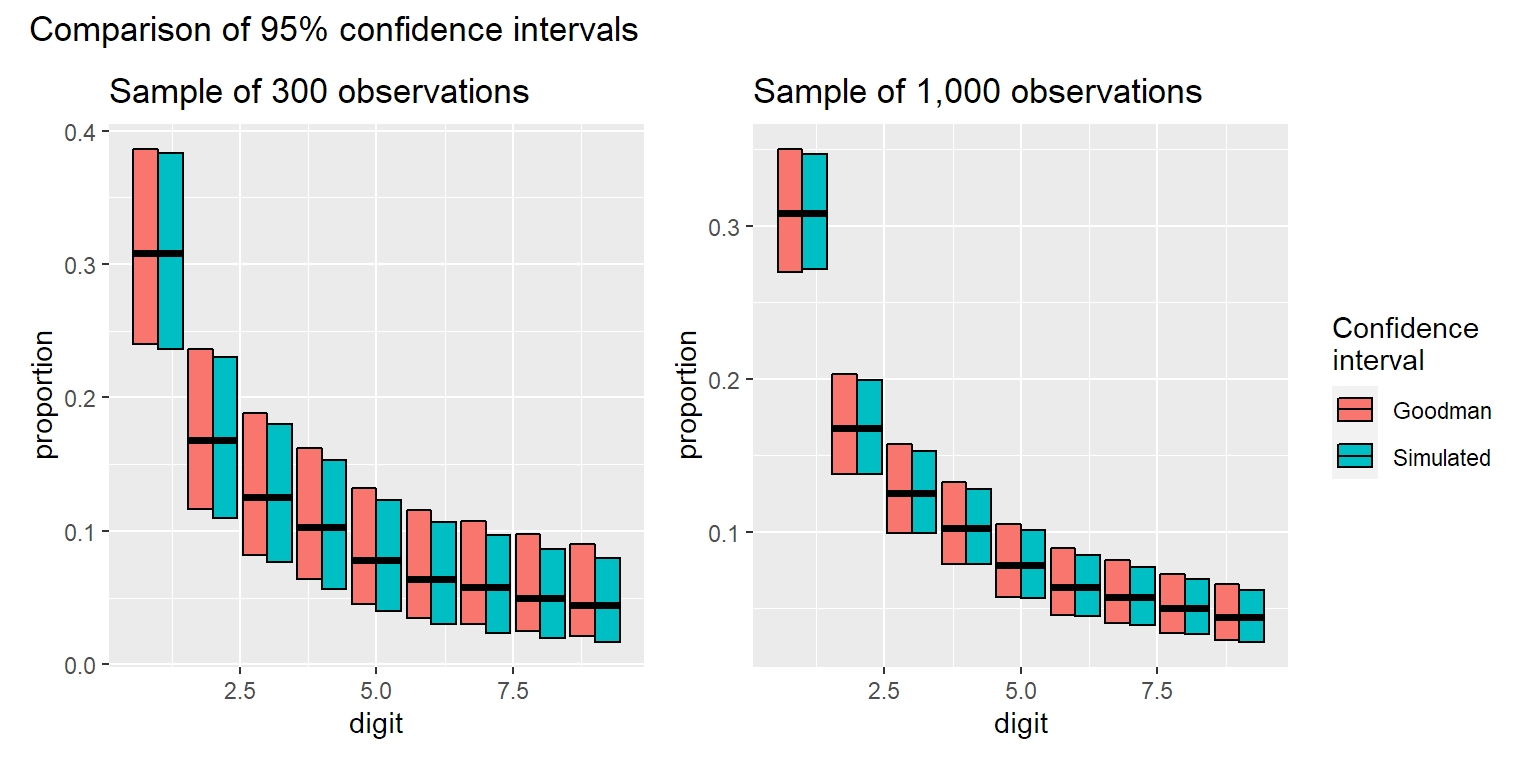
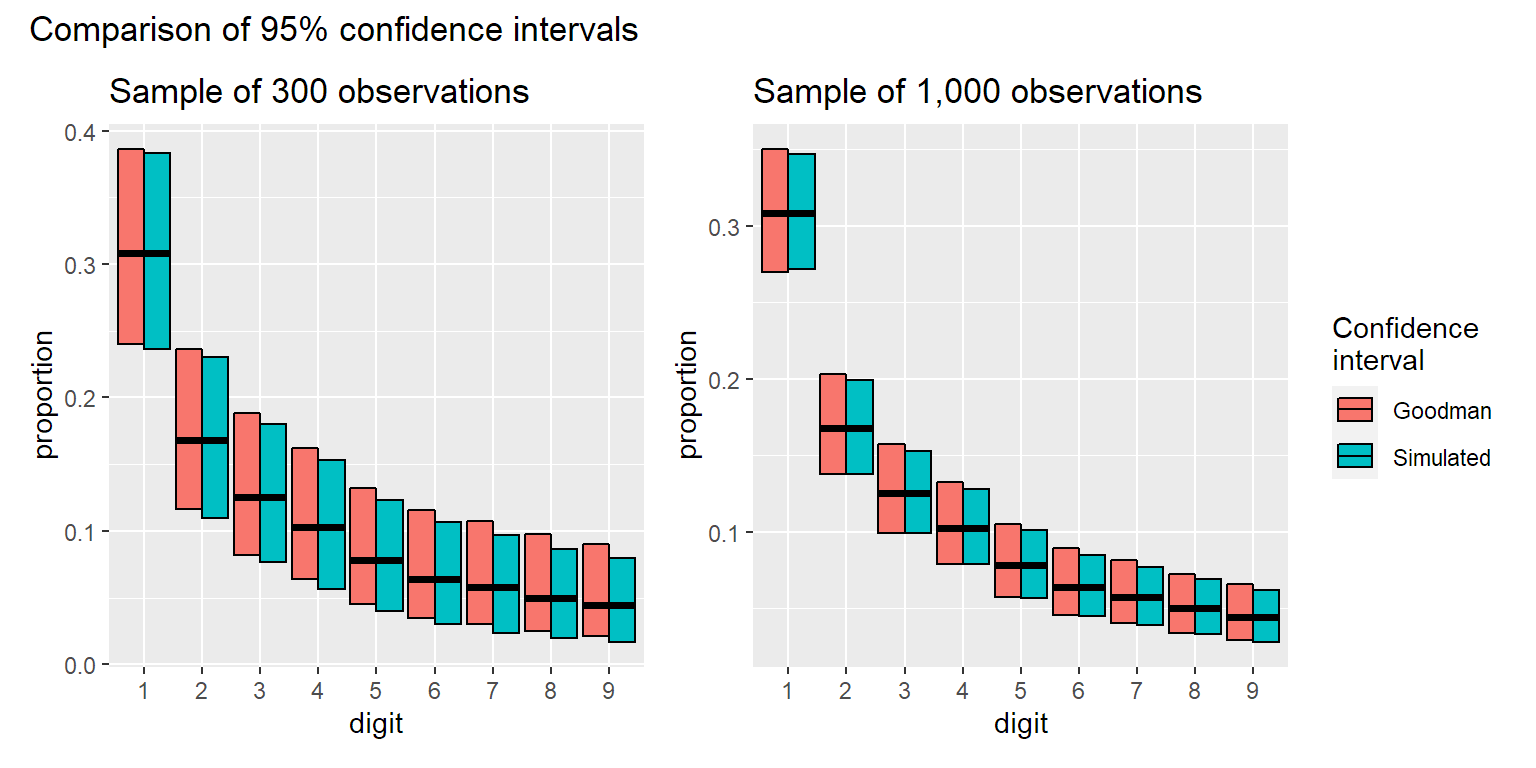
Corrected the X axis of the CI graph

diff --git a/docs/index.html b/docs/index.html
@@ -180,7 +180,7 @@ P(D) = \text{log}_{10}\left( \frac{D + 1}{D}\right)
 <p>In 1938, Frank Benford noticed the same thing and checked this theoretical distribution against a wide variety of datasets. Many of those datasets seemed to follow this law rather well, although some deviated significantly.</p>
 <p>As an example, I’ve downloaded the export data of all countries for the period 1960 to 2020 from the Worldbank website. This dataset contains in total 7015 numbers. In the graphs below I show the expected distribution of the first digit according to Benford’s law (left), and the observed distribution in this dataset (right). Both graphs look almost identical.</p>
 <p><img src="index_files/figure-html/unnamed-chunk-2-1.png" width="100%" style="display: block; margin: auto;" /></p>
-<template id="93374a4d-14ab-4a49-8528-0e9352616dc4"><style>
+<template id="1856cb15-8405-4f58-aff6-8490916753db"><style>
 .tabwid table{
   border-spacing:0px !important;
   border-collapse:collapse;
@@ -214,12 +214,12 @@ P(D) = \text{log}_{10}\left( \frac{D + 1}{D}\right)
 .tabwid table tr {
 background-color: transparent;
 }
-</style><div class="tabwid"><style>.cl-a9ef0dce{}.cl-a9e197fc{font-family:'Arial';font-size:11pt;font-weight:normal;font-style:normal;text-decoration:none;color:rgba(0, 0, 0, 1.00);background-color:transparent;}.cl-a9e1bf0c{margin:0;text-align:left;border-bottom: 0 solid rgba(0, 0, 0, 1.00);border-top: 0 solid rgba(0, 0, 0, 1.00);border-left: 0 solid rgba(0, 0, 0, 1.00);border-right: 0 solid rgba(0, 0, 0, 1.00);padding-bottom:5pt;padding-top:5pt;padding-left:5pt;padding-right:5pt;line-height: 1;background-color:transparent;}.cl-a9e1bf0d{margin:0;text-align:right;border-bottom: 0 solid rgba(0, 0, 0, 1.00);border-top: 0 solid rgba(0, 0, 0, 1.00);border-left: 0 solid rgba(0, 0, 0, 1.00);border-right: 0 solid rgba(0, 0, 0, 1.00);padding-bottom:5pt;padding-top:5pt;padding-left:5pt;padding-right:5pt;line-height: 1;background-color:transparent;}.cl-a9e22104{width:54pt;background-color:transparent;vertical-align: middle;border-bottom: 0 solid rgba(0, 0, 0, 1.00);border-top: 0 solid rgba(0, 0, 0, 1.00);border-left: 0 solid rgba(0, 0, 0, 1.00);border-right: 0 solid rgba(0, 0, 0, 1.00);margin-bottom:0;margin-top:0;margin-left:0;margin-right:0;}.cl-a9e22105{width:54pt;background-color:transparent;vertical-align: middle;border-bottom: 0 solid rgba(0, 0, 0, 1.00);border-top: 0 solid rgba(0, 0, 0, 1.00);border-left: 0 solid rgba(0, 0, 0, 1.00);border-right: 0 solid rgba(0, 0, 0, 1.00);margin-bottom:0;margin-top:0;margin-left:0;margin-right:0;}.cl-a9e22106{width:54pt;background-color:transparent;vertical-align: middle;border-bottom: 2pt solid rgba(102, 102, 102, 1.00);border-top: 0 solid rgba(0, 0, 0, 1.00);border-left: 0 solid rgba(0, 0, 0, 1.00);border-right: 0 solid rgba(0, 0, 0, 1.00);margin-bottom:0;margin-top:0;margin-left:0;margin-right:0;}.cl-a9e22107{width:54pt;background-color:transparent;vertical-align: middle;border-bottom: 2pt solid rgba(102, 102, 102, 1.00);border-top: 0 solid rgba(0, 0, 0, 1.00);border-left: 0 solid rgba(0, 0, 0, 1.00);border-right: 0 solid rgba(0, 0, 0, 1.00);margin-bottom:0;margin-top:0;margin-left:0;margin-right:0;}.cl-a9e22108{width:54pt;background-color:transparent;vertical-align: middle;border-bottom: 2pt solid rgba(102, 102, 102, 1.00);border-top: 2pt solid rgba(102, 102, 102, 1.00);border-left: 0 solid rgba(0, 0, 0, 1.00);border-right: 0 solid rgba(0, 0, 0, 1.00);margin-bottom:0;margin-top:0;margin-left:0;margin-right:0;}.cl-a9e22109{width:54pt;background-color:transparent;vertical-align: middle;border-bottom: 2pt solid rgba(102, 102, 102, 1.00);border-top: 2pt solid rgba(102, 102, 102, 1.00);border-left: 0 solid rgba(0, 0, 0, 1.00);border-right: 0 solid rgba(0, 0, 0, 1.00);margin-bottom:0;margin-top:0;margin-left:0;margin-right:0;}</style><table class='cl-a9ef0dce'>
-<thead><tr style="overflow-wrap:break-word;"><td class="cl-a9e22108"><p class="cl-a9e1bf0c"><span class="cl-a9e197fc"> </span></p></td><td class="cl-a9e22109"><p class="cl-a9e1bf0d"><span class="cl-a9e197fc">1</span></p></td><td class="cl-a9e22109"><p class="cl-a9e1bf0d"><span class="cl-a9e197fc">2</span></p></td><td class="cl-a9e22109"><p class="cl-a9e1bf0d"><span class="cl-a9e197fc">3</span></p></td><td class="cl-a9e22109"><p class="cl-a9e1bf0d"><span class="cl-a9e197fc">4</span></p></td><td class="cl-a9e22109"><p class="cl-a9e1bf0d"><span class="cl-a9e197fc">5</span></p></td><td class="cl-a9e22109"><p class="cl-a9e1bf0d"><span class="cl-a9e197fc">6</span></p></td><td class="cl-a9e22109"><p class="cl-a9e1bf0d"><span class="cl-a9e197fc">7</span></p></td><td class="cl-a9e22109"><p class="cl-a9e1bf0d"><span class="cl-a9e197fc">8</span></p></td><td class="cl-a9e22109"><p class="cl-a9e1bf0d"><span class="cl-a9e197fc">9</span></p></td></tr></thead><tbody><tr style="overflow-wrap:break-word;"><td class="cl-a9e22104"><p class="cl-a9e1bf0c"><span class="cl-a9e197fc">Expected</span></p></td><td class="cl-a9e22105"><p class="cl-a9e1bf0d"><span class="cl-a9e197fc">0.301</span></p></td><td class="cl-a9e22105"><p class="cl-a9e1bf0d"><span class="cl-a9e197fc">0.176</span></p></td><td class="cl-a9e22105"><p class="cl-a9e1bf0d"><span class="cl-a9e197fc">0.125</span></p></td><td class="cl-a9e22105"><p class="cl-a9e1bf0d"><span class="cl-a9e197fc">0.097</span></p></td><td class="cl-a9e22105"><p class="cl-a9e1bf0d"><span class="cl-a9e197fc">0.079</span></p></td><td class="cl-a9e22105"><p class="cl-a9e1bf0d"><span class="cl-a9e197fc">0.067</span></p></td><td class="cl-a9e22105"><p class="cl-a9e1bf0d"><span class="cl-a9e197fc">0.058</span></p></td><td class="cl-a9e22105"><p class="cl-a9e1bf0d"><span class="cl-a9e197fc">0.051</span></p></td><td class="cl-a9e22105"><p class="cl-a9e1bf0d"><span class="cl-a9e197fc">0.046</span></p></td></tr><tr style="overflow-wrap:break-word;"><td class="cl-a9e22106"><p class="cl-a9e1bf0c"><span class="cl-a9e197fc">Observed</span></p></td><td class="cl-a9e22107"><p class="cl-a9e1bf0d"><span class="cl-a9e197fc">0.309</span></p></td><td class="cl-a9e22107"><p class="cl-a9e1bf0d"><span class="cl-a9e197fc">0.168</span></p></td><td class="cl-a9e22107"><p class="cl-a9e1bf0d"><span class="cl-a9e197fc">0.126</span></p></td><td class="cl-a9e22107"><p class="cl-a9e1bf0d"><span class="cl-a9e197fc">0.103</span></p></td><td class="cl-a9e22107"><p class="cl-a9e1bf0d"><span class="cl-a9e197fc">0.078</span></p></td><td class="cl-a9e22107"><p class="cl-a9e1bf0d"><span class="cl-a9e197fc">0.064</span></p></td><td class="cl-a9e22107"><p class="cl-a9e1bf0d"><span class="cl-a9e197fc">0.058</span></p></td><td class="cl-a9e22107"><p class="cl-a9e1bf0d"><span class="cl-a9e197fc">0.050</span></p></td><td class="cl-a9e22107"><p class="cl-a9e1bf0d"><span class="cl-a9e197fc">0.044</span></p></td></tr></tbody></table></div></template>
-<div class="flextable-shadow-host" id="b064ccc7-8f6d-4307-8345-c32095c7d7ce"></div>
+</style><div class="tabwid"><style>.cl-e6510294{}.cl-e64484e2{font-family:'Arial';font-size:11pt;font-weight:normal;font-style:normal;text-decoration:none;color:rgba(0, 0, 0, 1.00);background-color:transparent;}.cl-e644abde{margin:0;text-align:left;border-bottom: 0 solid rgba(0, 0, 0, 1.00);border-top: 0 solid rgba(0, 0, 0, 1.00);border-left: 0 solid rgba(0, 0, 0, 1.00);border-right: 0 solid rgba(0, 0, 0, 1.00);padding-bottom:5pt;padding-top:5pt;padding-left:5pt;padding-right:5pt;line-height: 1;background-color:transparent;}.cl-e644abdf{margin:0;text-align:right;border-bottom: 0 solid rgba(0, 0, 0, 1.00);border-top: 0 solid rgba(0, 0, 0, 1.00);border-left: 0 solid rgba(0, 0, 0, 1.00);border-right: 0 solid rgba(0, 0, 0, 1.00);padding-bottom:5pt;padding-top:5pt;padding-left:5pt;padding-right:5pt;line-height: 1;background-color:transparent;}.cl-e6450d4a{width:54pt;background-color:transparent;vertical-align: middle;border-bottom: 0 solid rgba(0, 0, 0, 1.00);border-top: 0 solid rgba(0, 0, 0, 1.00);border-left: 0 solid rgba(0, 0, 0, 1.00);border-right: 0 solid rgba(0, 0, 0, 1.00);margin-bottom:0;margin-top:0;margin-left:0;margin-right:0;}.cl-e6450d4b{width:54pt;background-color:transparent;vertical-align: middle;border-bottom: 0 solid rgba(0, 0, 0, 1.00);border-top: 0 solid rgba(0, 0, 0, 1.00);border-left: 0 solid rgba(0, 0, 0, 1.00);border-right: 0 solid rgba(0, 0, 0, 1.00);margin-bottom:0;margin-top:0;margin-left:0;margin-right:0;}.cl-e6450d4c{width:54pt;background-color:transparent;vertical-align: middle;border-bottom: 2pt solid rgba(102, 102, 102, 1.00);border-top: 0 solid rgba(0, 0, 0, 1.00);border-left: 0 solid rgba(0, 0, 0, 1.00);border-right: 0 solid rgba(0, 0, 0, 1.00);margin-bottom:0;margin-top:0;margin-left:0;margin-right:0;}.cl-e6450d4d{width:54pt;background-color:transparent;vertical-align: middle;border-bottom: 2pt solid rgba(102, 102, 102, 1.00);border-top: 0 solid rgba(0, 0, 0, 1.00);border-left: 0 solid rgba(0, 0, 0, 1.00);border-right: 0 solid rgba(0, 0, 0, 1.00);margin-bottom:0;margin-top:0;margin-left:0;margin-right:0;}.cl-e6450d4e{width:54pt;background-color:transparent;vertical-align: middle;border-bottom: 2pt solid rgba(102, 102, 102, 1.00);border-top: 2pt solid rgba(102, 102, 102, 1.00);border-left: 0 solid rgba(0, 0, 0, 1.00);border-right: 0 solid rgba(0, 0, 0, 1.00);margin-bottom:0;margin-top:0;margin-left:0;margin-right:0;}.cl-e6450d4f{width:54pt;background-color:transparent;vertical-align: middle;border-bottom: 2pt solid rgba(102, 102, 102, 1.00);border-top: 2pt solid rgba(102, 102, 102, 1.00);border-left: 0 solid rgba(0, 0, 0, 1.00);border-right: 0 solid rgba(0, 0, 0, 1.00);margin-bottom:0;margin-top:0;margin-left:0;margin-right:0;}</style><table class='cl-e6510294'>
+<thead><tr style="overflow-wrap:break-word;"><td class="cl-e6450d4e"><p class="cl-e644abde"><span class="cl-e64484e2"> </span></p></td><td class="cl-e6450d4f"><p class="cl-e644abdf"><span class="cl-e64484e2">1</span></p></td><td class="cl-e6450d4f"><p class="cl-e644abdf"><span class="cl-e64484e2">2</span></p></td><td class="cl-e6450d4f"><p class="cl-e644abdf"><span class="cl-e64484e2">3</span></p></td><td class="cl-e6450d4f"><p class="cl-e644abdf"><span class="cl-e64484e2">4</span></p></td><td class="cl-e6450d4f"><p class="cl-e644abdf"><span class="cl-e64484e2">5</span></p></td><td class="cl-e6450d4f"><p class="cl-e644abdf"><span class="cl-e64484e2">6</span></p></td><td class="cl-e6450d4f"><p class="cl-e644abdf"><span class="cl-e64484e2">7</span></p></td><td class="cl-e6450d4f"><p class="cl-e644abdf"><span class="cl-e64484e2">8</span></p></td><td class="cl-e6450d4f"><p class="cl-e644abdf"><span class="cl-e64484e2">9</span></p></td></tr></thead><tbody><tr style="overflow-wrap:break-word;"><td class="cl-e6450d4a"><p class="cl-e644abde"><span class="cl-e64484e2">Expected</span></p></td><td class="cl-e6450d4b"><p class="cl-e644abdf"><span class="cl-e64484e2">0.301</span></p></td><td class="cl-e6450d4b"><p class="cl-e644abdf"><span class="cl-e64484e2">0.176</span></p></td><td class="cl-e6450d4b"><p class="cl-e644abdf"><span class="cl-e64484e2">0.125</span></p></td><td class="cl-e6450d4b"><p class="cl-e644abdf"><span class="cl-e64484e2">0.097</span></p></td><td class="cl-e6450d4b"><p class="cl-e644abdf"><span class="cl-e64484e2">0.079</span></p></td><td class="cl-e6450d4b"><p class="cl-e644abdf"><span class="cl-e64484e2">0.067</span></p></td><td class="cl-e6450d4b"><p class="cl-e644abdf"><span class="cl-e64484e2">0.058</span></p></td><td class="cl-e6450d4b"><p class="cl-e644abdf"><span class="cl-e64484e2">0.051</span></p></td><td class="cl-e6450d4b"><p class="cl-e644abdf"><span class="cl-e64484e2">0.046</span></p></td></tr><tr style="overflow-wrap:break-word;"><td class="cl-e6450d4c"><p class="cl-e644abde"><span class="cl-e64484e2">Observed</span></p></td><td class="cl-e6450d4d"><p class="cl-e644abdf"><span class="cl-e64484e2">0.309</span></p></td><td class="cl-e6450d4d"><p class="cl-e644abdf"><span class="cl-e64484e2">0.168</span></p></td><td class="cl-e6450d4d"><p class="cl-e644abdf"><span class="cl-e64484e2">0.126</span></p></td><td class="cl-e6450d4d"><p class="cl-e644abdf"><span class="cl-e64484e2">0.103</span></p></td><td class="cl-e6450d4d"><p class="cl-e644abdf"><span class="cl-e64484e2">0.078</span></p></td><td class="cl-e6450d4d"><p class="cl-e644abdf"><span class="cl-e64484e2">0.064</span></p></td><td class="cl-e6450d4d"><p class="cl-e644abdf"><span class="cl-e64484e2">0.058</span></p></td><td class="cl-e6450d4d"><p class="cl-e644abdf"><span class="cl-e64484e2">0.050</span></p></td><td class="cl-e6450d4d"><p class="cl-e644abdf"><span class="cl-e64484e2">0.044</span></p></td></tr></tbody></table></div></template>
+<div class="flextable-shadow-host" id="446d5c7d-6669-438f-916d-5123ff1e4f61"></div>
 <script>
-var dest = document.getElementById("b064ccc7-8f6d-4307-8345-c32095c7d7ce");
-var template = document.getElementById("93374a4d-14ab-4a49-8528-0e9352616dc4");
+var dest = document.getElementById("446d5c7d-6669-438f-916d-5123ff1e4f61");
+var template = document.getElementById("1856cb15-8405-4f58-aff6-8490916753db");
 var caption = template.content.querySelector("caption");
 if(caption) {
   caption.style.cssText = "display:block;text-align:center;";
